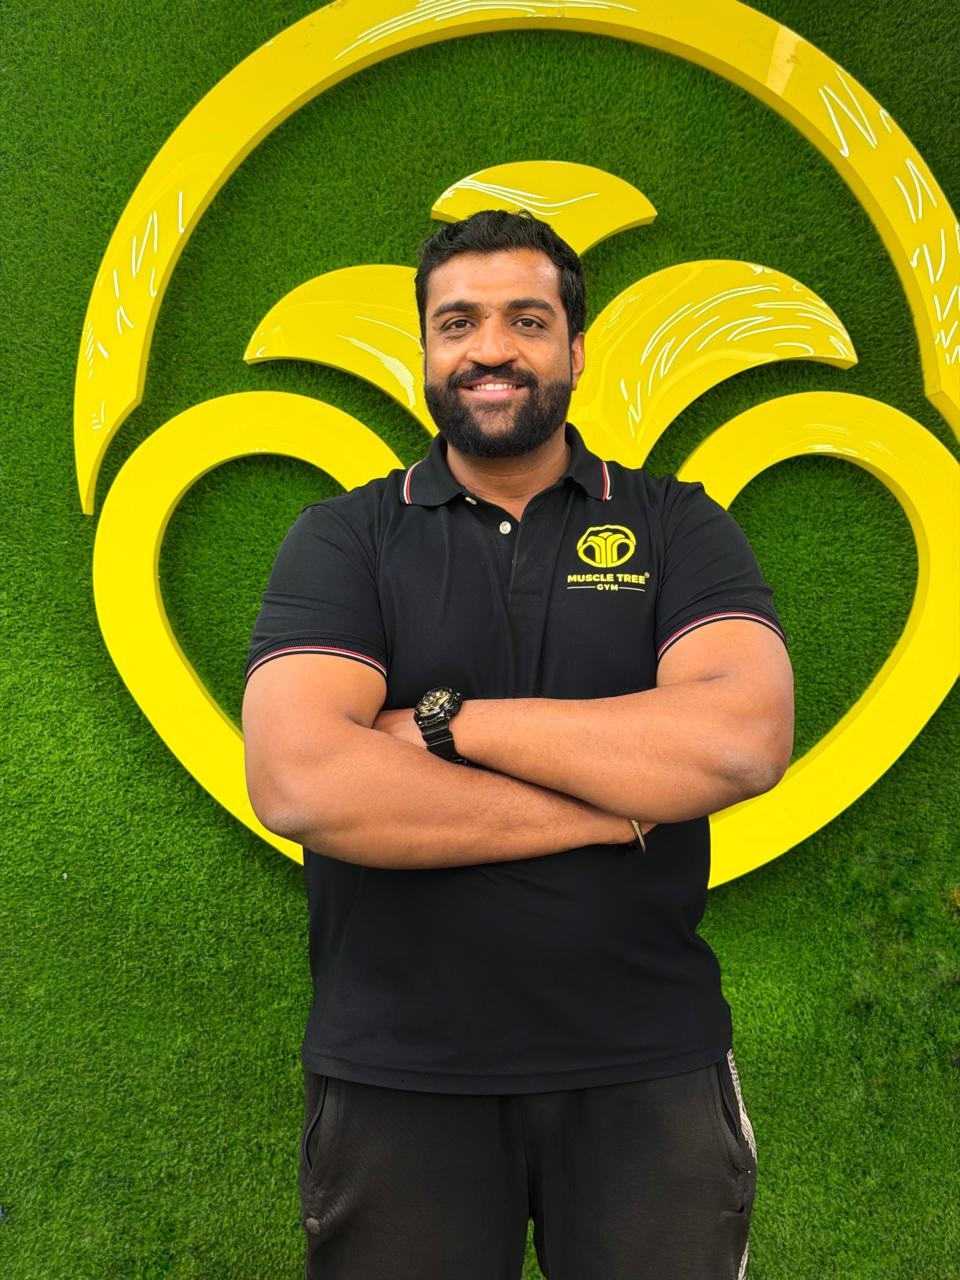
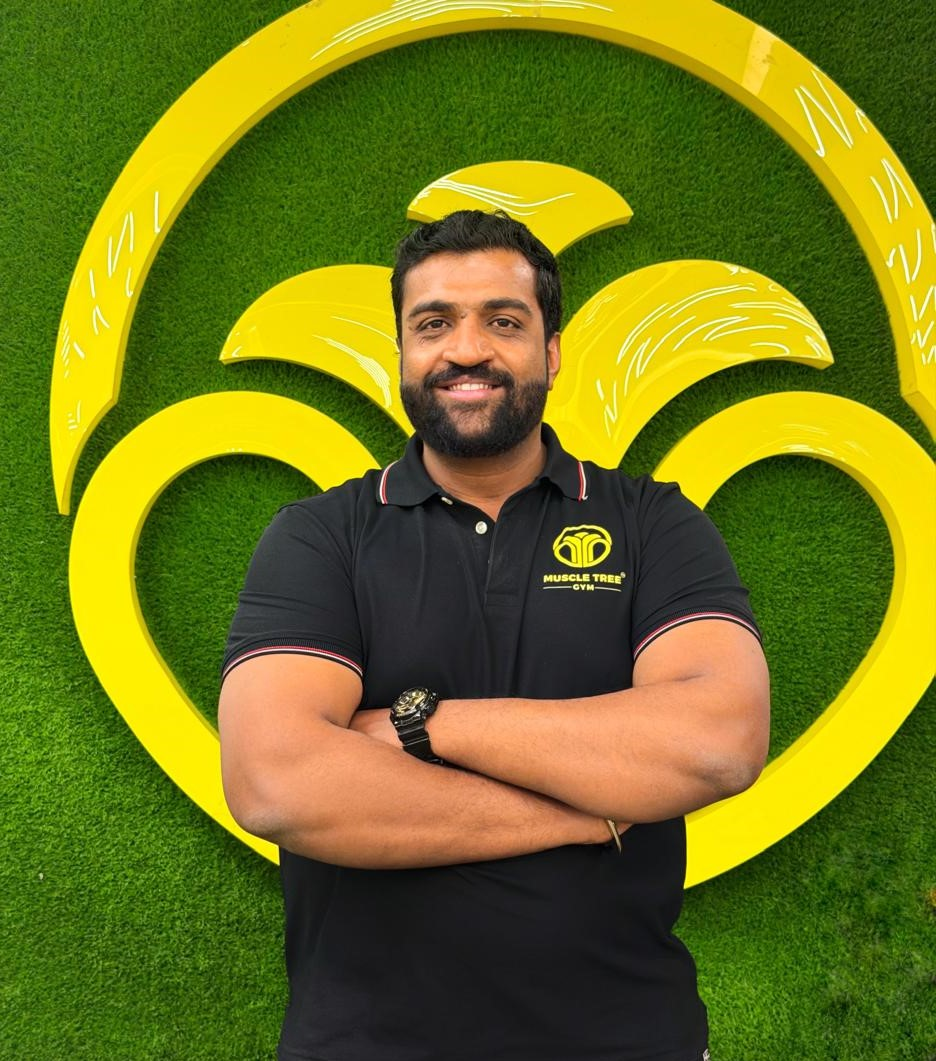
Update Trainers component with new trainer profiles and images
- Added Nitin Patil and Adarsh Jagadhane to the Trainers component, including their roles, experience, specializations, certifications, and social media links.
- Updated image imports for the new trainers and removed the old Sujay Bhosale image file.
- Enhanced social media integration by adding Facebook links for trainers.

diff --git a/src/components/Trainers.tsx b/src/components/Trainers.tsx
@@ -3,6 +3,8 @@ import { useInView } from "framer-motion";
 import { useRef } from "react";
 import { FaInstagram, FaFacebook, FaTwitter } from "react-icons/fa";
 import sujayImage from "@/Trainers/Sujay-Bhosal.jpeg";
+import nitinImage from "@/Trainers/nitin-patil.jpeg";
+import adarshImage from "@/Trainers/Adarsh.jpeg";
 
 const Trainers = () => {
   const ref = useRef(null);
@@ -19,22 +21,23 @@ const Trainers = () => {
       instagram: "@MavenSujay",
     },
     {
-      name: "Rajesh Patil",
-      role: "Strength & Conditioning Coach",
-      experience: "7+ Years",
-      image: null,
-      specialization: "Strength Training • Powerlifting • Bodybuilding • Muscle Gain Programs",
-      certifications: ["Certified Strength Coach", "ISSA Certified"],
-      instagram: null,
+      name: "Nitin Patil",
+      role: "Functional & CrossFit Trainer",
+      experience: "6 Years Weight Training • 3 Years Personal Training",
+      image: nitinImage,
+      specialization: "Functional Training • CrossFit Training",
+      certifications: ["MASTERY IN FUNCTIONAL AND CROSSFIT TRAINING from MAS FITNESS ACADEMY"],
+      instagram: "https://www.instagram.com/nitinpatil8252",
+      facebook: "https://www.facebook.com/profile.php?id=100094698955013",
     },
     {
-      name: "Priya Deshmukh",
-      role: "Yoga & Wellness Instructor",
-      experience: "5+ Years",
-      image: null,
-      specialization: "Yoga • Pilates • Flexibility Training • Stress Management • Meditation",
-      certifications: ["RYT 200 Certified", "Pilates Instructor"],
-      instagram: null,
+      name: "Adarsh Jagadhane",
+      role: "Weight Training Specialist",
+      experience: "3 Years Weight Training Experience",
+      image: adarshImage,
+      specialization: "Weight Training • Proper Workout Guidance",
+      certifications: ["MASTERY IN FUNCTIONAL AND CROSSFIT TRAINING from MAS FITNESS ACADEMY"],
+      instagram: "https://www.instagram.com/aadarsh_jagadhane",
     },
     {
       name: "Amit Kulkarni",
@@ -151,7 +154,7 @@ const Trainers = () => {
                   <div className="flex gap-3 pt-4 border-t border-border/50">
                     {trainer.instagram && (
                       <a
-                        href={`https://instagram.com/${trainer.instagram.replace('@', '')}`}
+                        href={trainer.instagram.startsWith('http') ? trainer.instagram : `https://instagram.com/${trainer.instagram.replace('@', '')}`}
                         target="_blank"
                         rel="noopener noreferrer"
                         className="text-muted-foreground hover:text-primary transition-colors"
@@ -159,6 +162,18 @@ const Trainers = () => {
                         aria-label={`Follow ${trainer.name} on Instagram`}
                       >
                         <FaInstagram className="text-xl" />
+                      </a>
+                    )}
+                    {trainer.facebook && (
+                      <a
+                        href={trainer.facebook}
+                        target="_blank"
+                        rel="noopener noreferrer"
+                        className="text-muted-foreground hover:text-primary transition-colors"
+                        title="Facebook Profile"
+                        aria-label={`Follow ${trainer.name} on Facebook`}
+                      >
+                        <FaFacebook className="text-xl" />
                       </a>
                     )}
                   </div>
